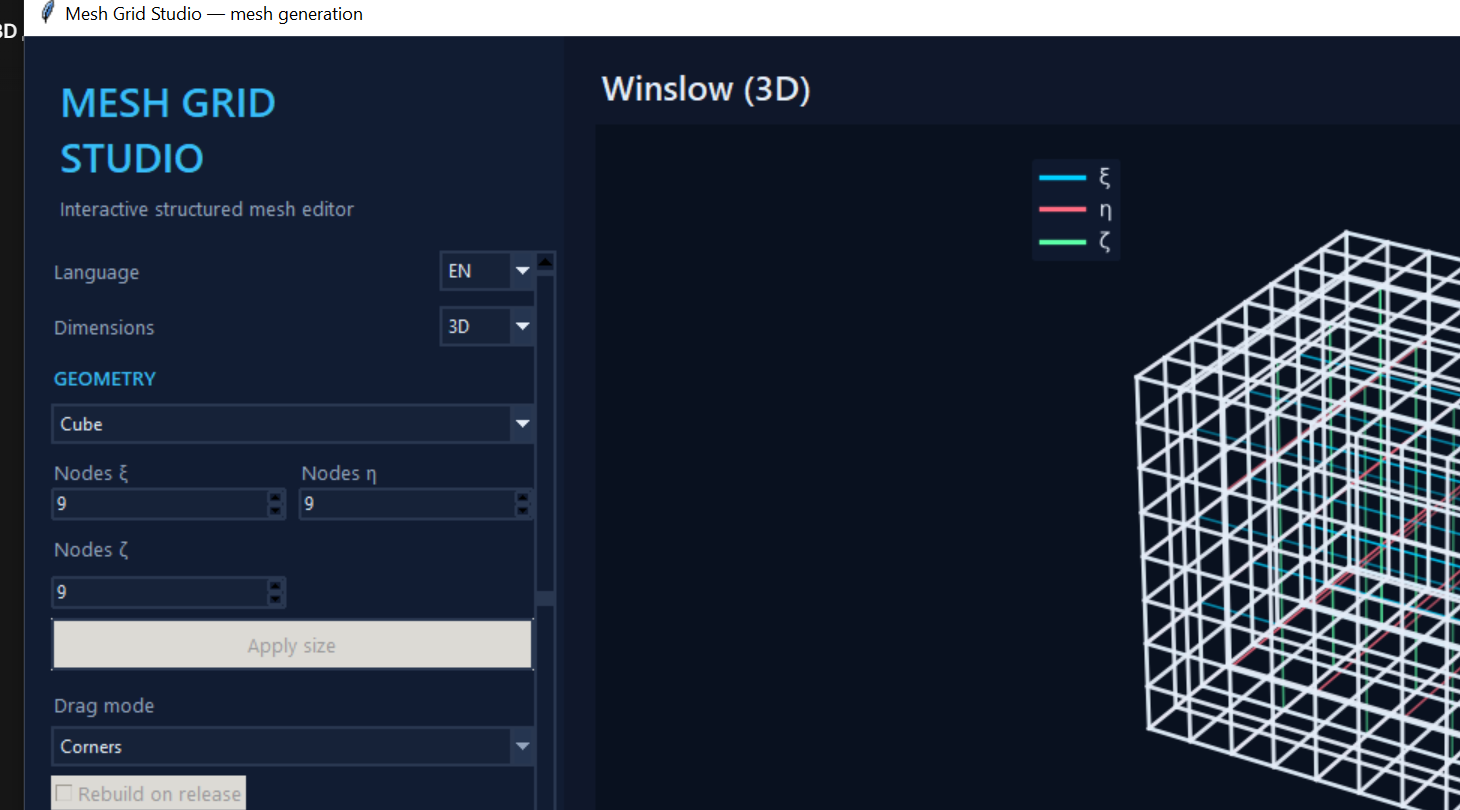
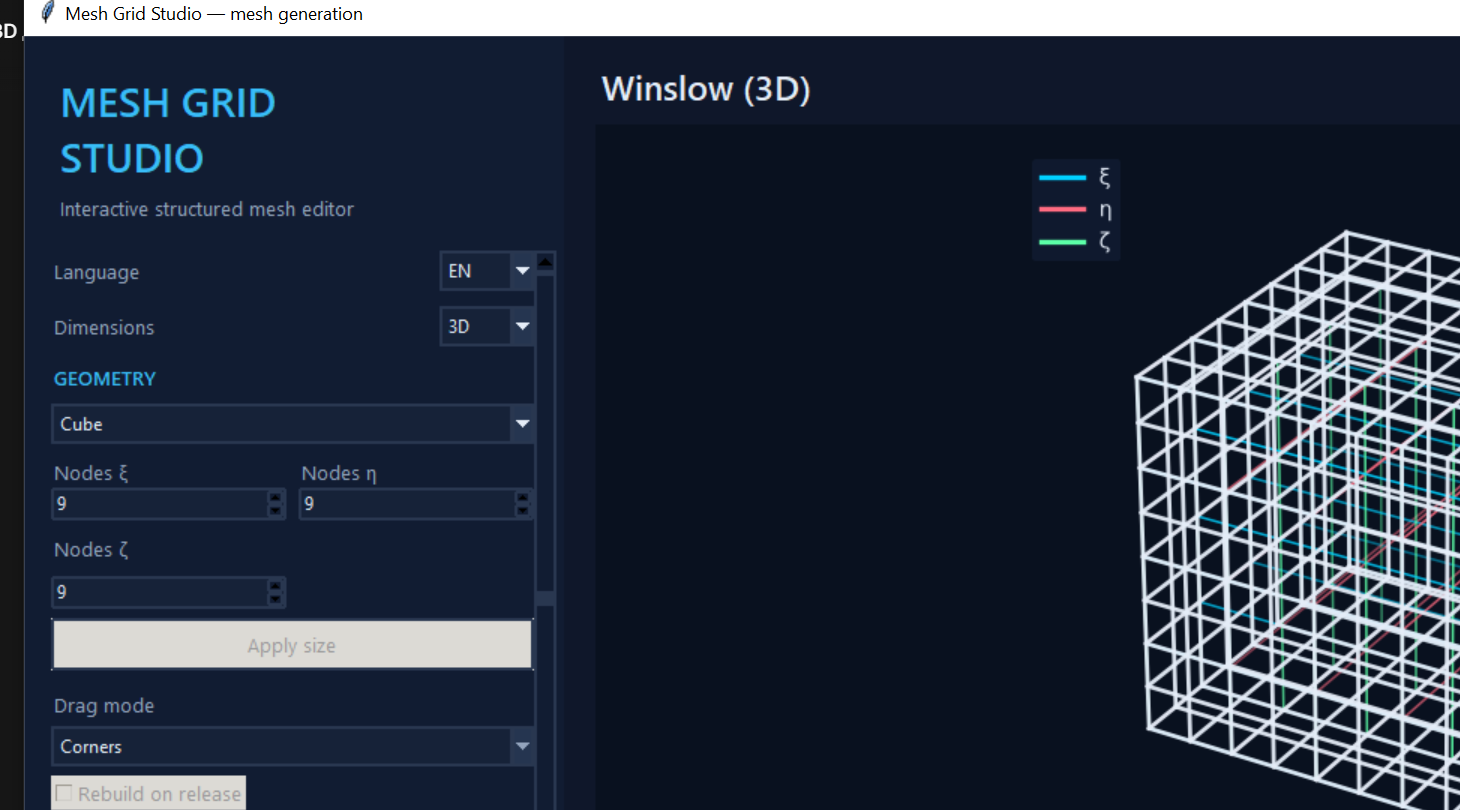
Fix inverted depth cue order in the 3D wireframe
proj3d returns SMALLER zs for NEARER points; the painter loop drew near lines first with low alpha, making distant threads bright and on top. Far lines are now drawn first (alpha 0.35), near ones last (alpha 1.0), matching the documented cue.

Changed region(s): [[0.8938, 0.463, 1.0, 0.9259], [0.9863, 0.5247, 1.0, 0.5556], [0.8322, 0.5247, 0.863, 0.5556]]

diff --git a/mesh_gui.py b/mesh_gui.py
@@ -1664,7 +1664,9 @@ class MeshDesignerApp:
                 points[:, 0], points[:, 1], points[:, 2], projection
             )
             depths.append(float(np.median(zs)))
-        order = np.argsort(depths)
+        # Smaller projected z means CLOSER to the camera; draw far lines
+        # first with low alpha so near threads stay crisp on top.
+        order = np.argsort(depths)[::-1]
         count = len(order)
         for position, index in enumerate(order):
             points, color = lines[index]
